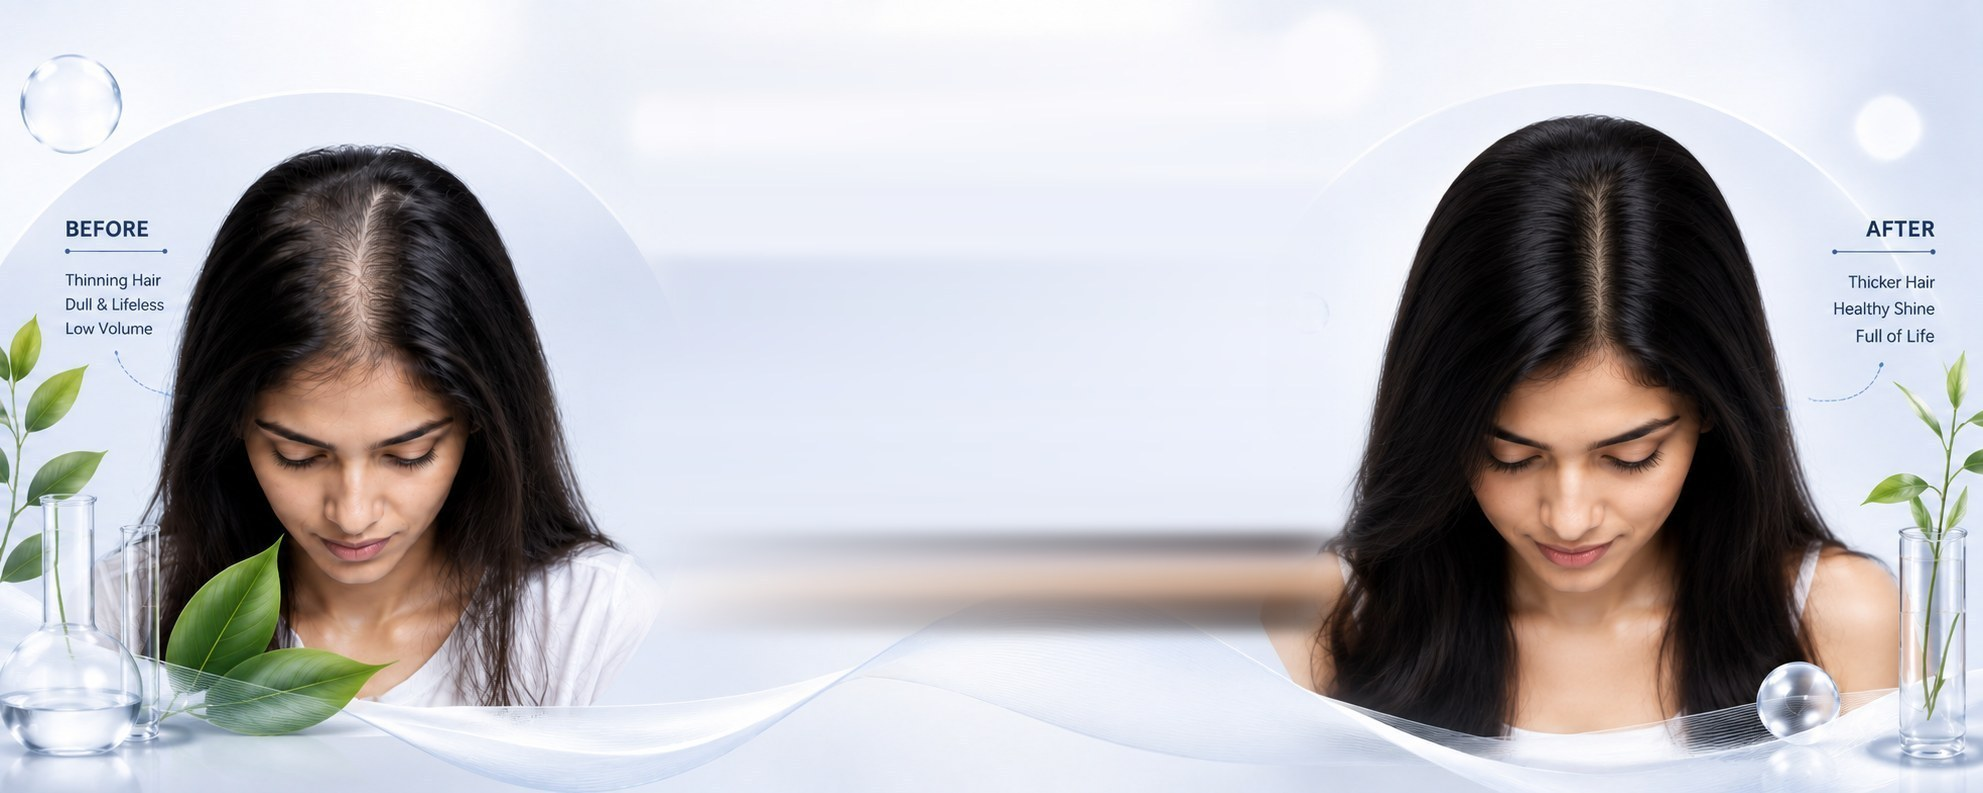
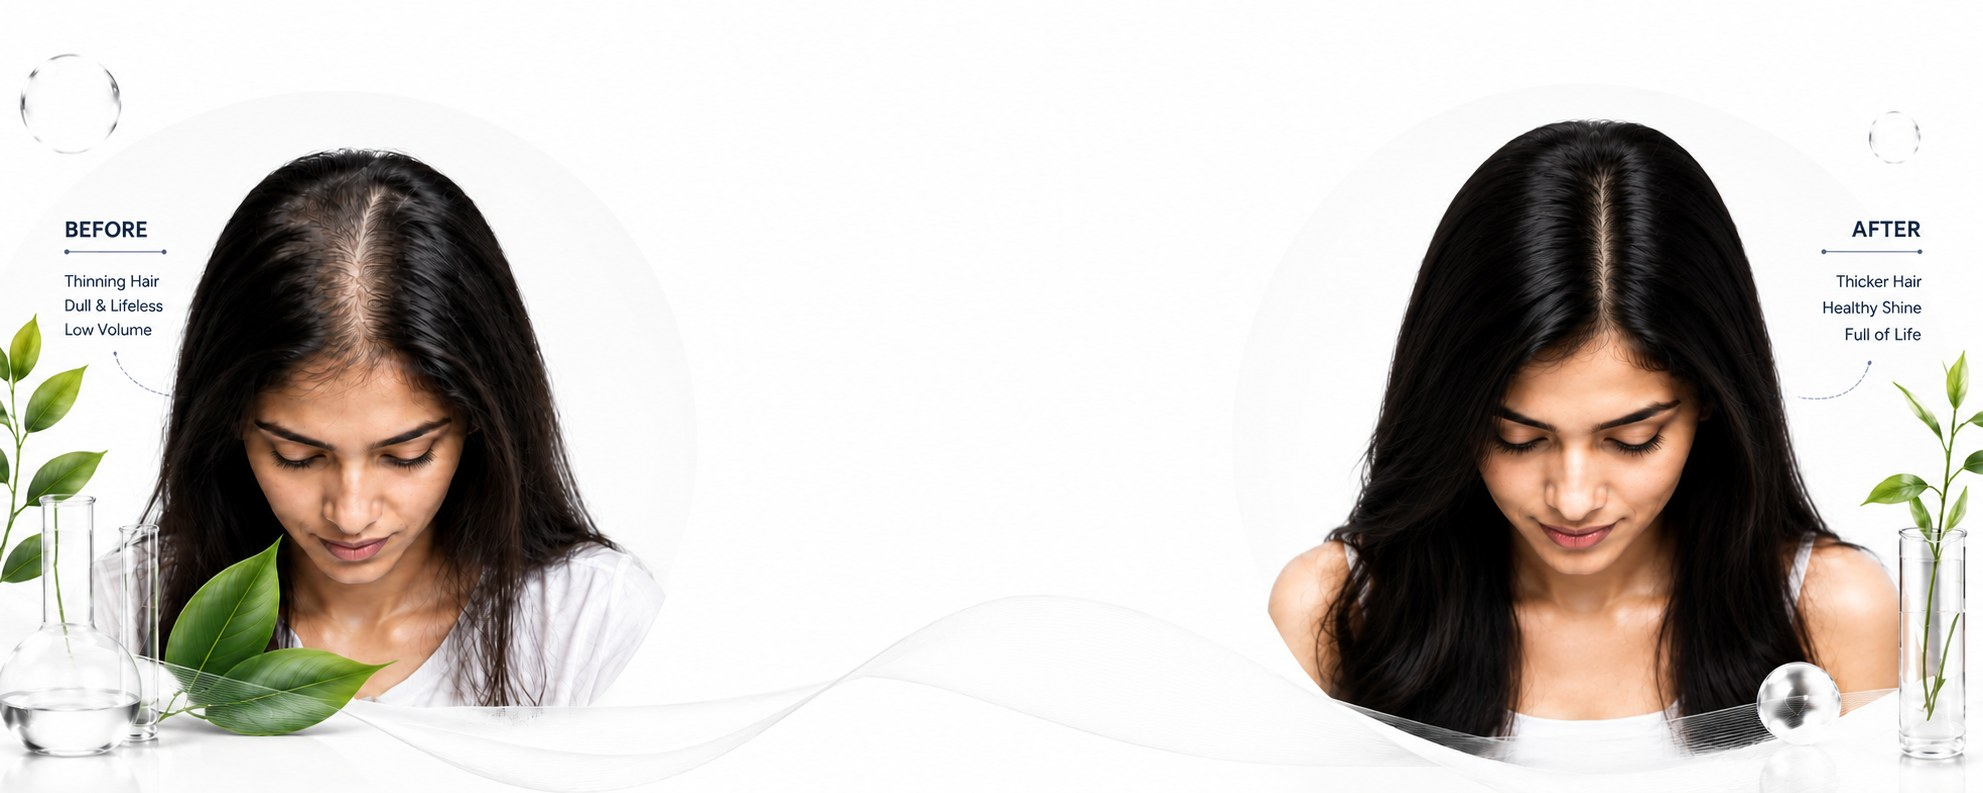
Swap the hair slide artwork
New white-ground version replaces the pale-blue one. Its centre is already
clear, so nothing needs painting out this time, and it keeps the BEFORE and
AFTER labels. Edge tones re-sampled to match the new ground; dimensions are
unchanged.

Both slides now sit on white, which also makes the join to the white header
seamless.

diff --git a/src/data/banners.ts b/src/data/banners.ts
@@ -31,7 +31,7 @@ export const banners: Banner[] = [
     width: 1983,
     height: 793,
     alt: "Before and after: thinning hair with a widening parting, and thicker hair with a denser parting.",
-    edge: { top: "#f2f5fb", bottom: "#dae1f0" },
+    edge: { top: "#fefefe", bottom: "#fcfcfc" },
     strapline: "Transforming hair.",
     headline: ["Restoring", "confidence."],
     features: [
